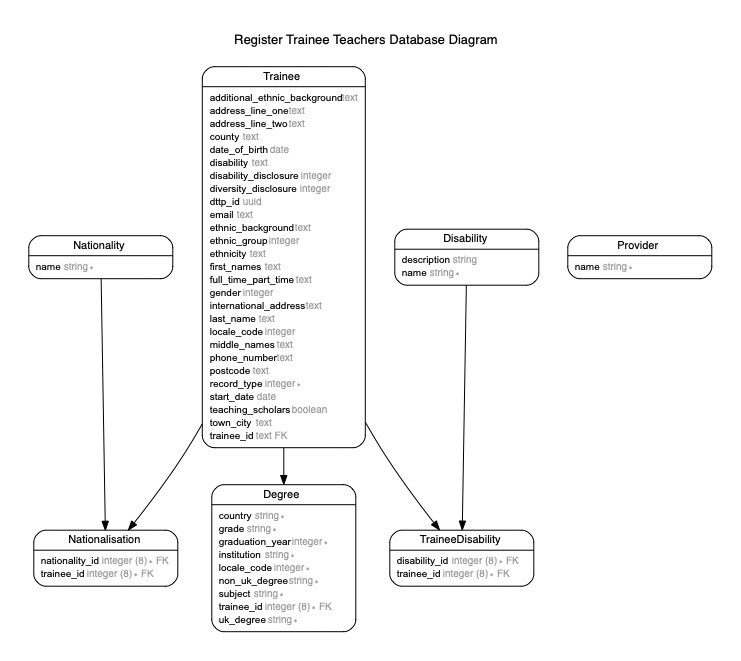
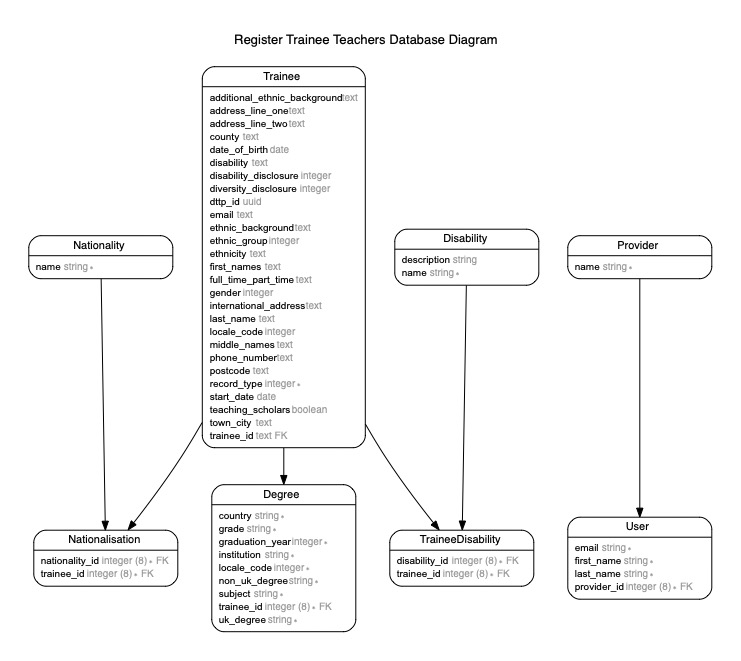
[380] Add User model
A user should only have one provider and a provider could have many users

diff --git a/db/schema.rb b/db/schema.rb
@@ -10,7 +10,7 @@
 #
 # It's strongly recommended that you check this file into your version control system.
 
-ActiveRecord::Schema.define(version: 2020_11_06_110950) do
+ActiveRecord::Schema.define(version: 2020_11_06_111550) do
 
   # These are extensions that must be enabled in order to support this database
   enable_extension "plpgsql"
@@ -109,9 +109,21 @@ ActiveRecord::Schema.define(version: 2020_11_06_110950) do
     t.index ["record_type"], name: "index_trainees_on_record_type"
   end
 
+  create_table "users", force: :cascade do |t|
+    t.string "first_name", null: false
+    t.string "last_name", null: false
+    t.string "email", null: false
+    t.bigint "provider_id", null: false
+    t.datetime "created_at", precision: 6, null: false
+    t.datetime "updated_at", precision: 6, null: false
+    t.index ["email", "provider_id"], name: "index_users_on_email_and_provider_id"
+    t.index ["provider_id"], name: "index_users_on_provider_id"
+  end
+
   add_foreign_key "degrees", "trainees"
   add_foreign_key "nationalisations", "nationalities"
   add_foreign_key "nationalisations", "trainees"
   add_foreign_key "trainee_disabilities", "disabilities"
   add_foreign_key "trainee_disabilities", "trainees"
+  add_foreign_key "users", "providers"
 end

diff --git a/db/migrate/20201106111550_create_users.rb b/db/migrate/20201106111550_create_users.rb
@@ -1,0 +1,14 @@
+class CreateUsers < ActiveRecord::Migration[6.0]
+  def change
+    create_table :users do |t|
+      t.string :first_name, null: false
+      t.string :last_name, null: false
+      t.string :email, null: false
+      t.references :provider, index: true, null: false, foreign_key: { to_table: :providers }
+
+      t.timestamps
+    end
+
+    add_index :users, :email
+  end
+end

diff --git a/spec/models/user_spec.rb b/spec/models/user_spec.rb
@@ -1,0 +1,15 @@
+require "rails_helper"
+
+describe User do
+  context "fields" do
+    it "validates" do
+      expect(subject).to validate_presence_of(:first_name)
+      expect(subject).to validate_presence_of(:last_name)
+      expect(subject).to validate_presence_of(:email)
+    end
+  end
+
+  describe "associations" do
+    it { is_expected.to belong_to(:provider) }
+  end
+end

diff --git a/spec/factories/users.rb b/spec/factories/users.rb
@@ -1,0 +1,7 @@
+FactoryBot.define do
+  factory :user, class: User do
+    first_name { Faker::Name.first_name }
+    last_name { Faker::Name.last_name }
+    email { Faker::Internet.email }
+  end
+end

diff --git a/app/models/user.rb b/app/models/user.rb
@@ -1,0 +1,7 @@
+class User < ApplicationRecord
+  belongs_to :provider
+
+  validates :first_name, presence: true
+  validates :last_name, presence: true
+  validates :email, presence: true
+end

diff --git a/spec/models/provider_spec.rb b/spec/models/provider_spec.rb
@@ -6,4 +6,8 @@ describe Provider do
       expect(subject).to validate_presence_of(:name)
     end
   end
+
+  describe "associations" do
+    it { is_expected.to have_many(:users) }
+  end
 end

diff --git a/spec/factories/providers.rb b/spec/factories/providers.rb
@@ -1,0 +1,7 @@
+FactoryBot.define do
+  factory :provider, class: Provider do
+    sequence :name do |n|
+      "Provider #{n}"
+    end
+  end
+end

diff --git a/app/models/provider.rb b/app/models/provider.rb
@@ -1,3 +1,5 @@
 class Provider < ApplicationRecord
+  has_many :users
+
   validates :name, presence: true
 end
